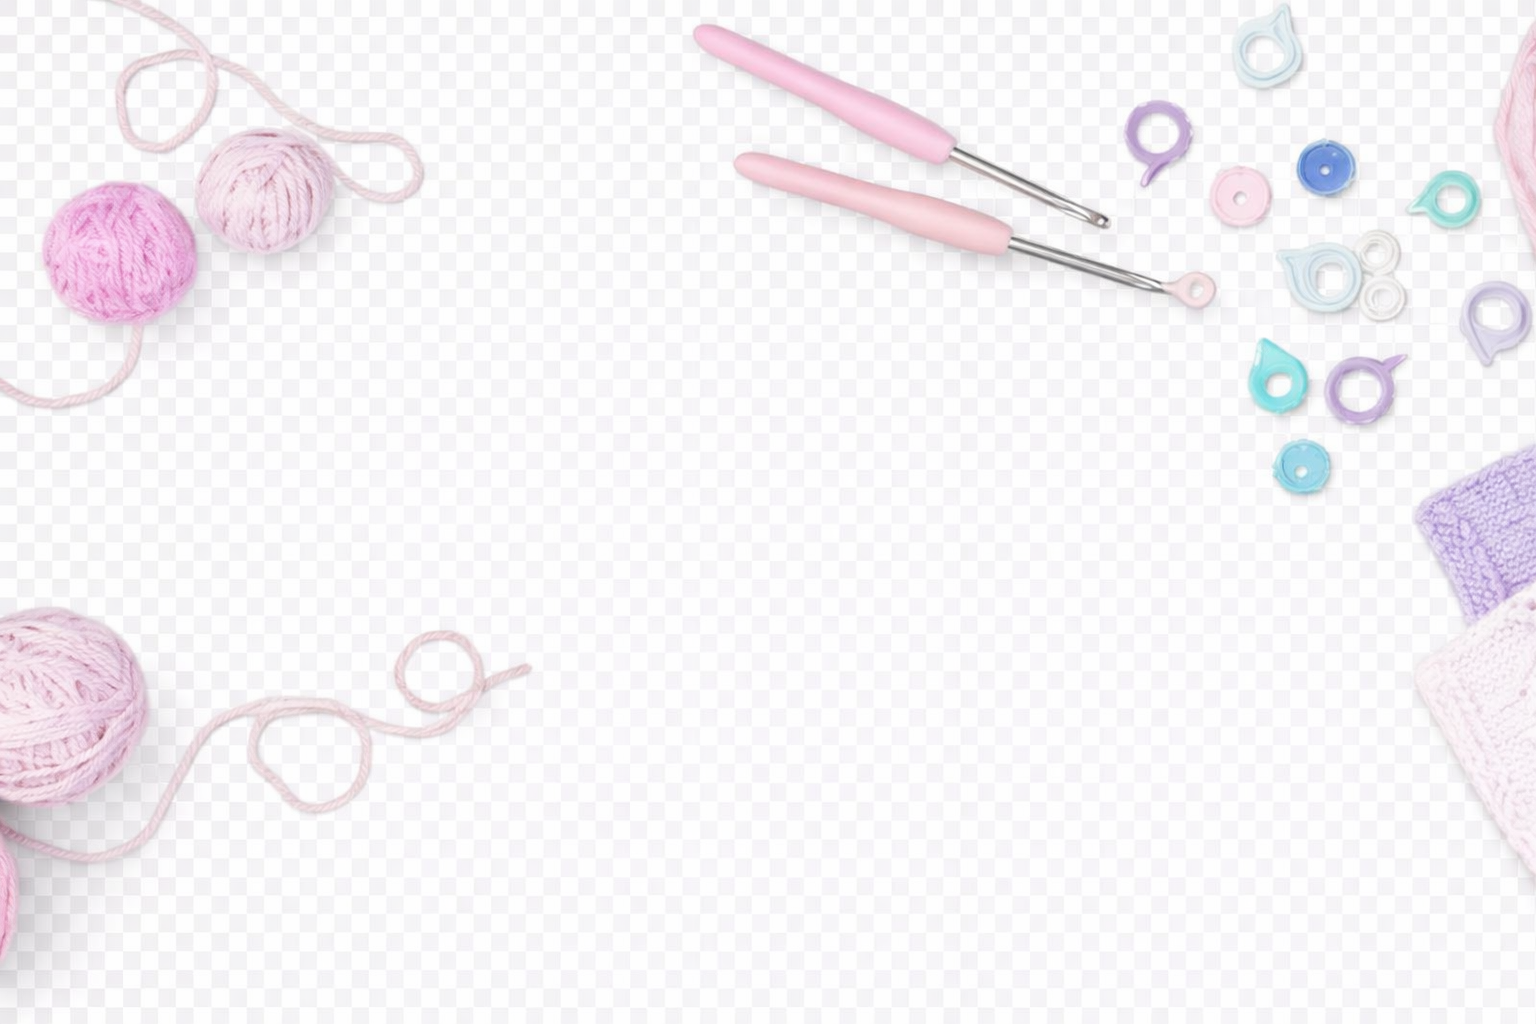
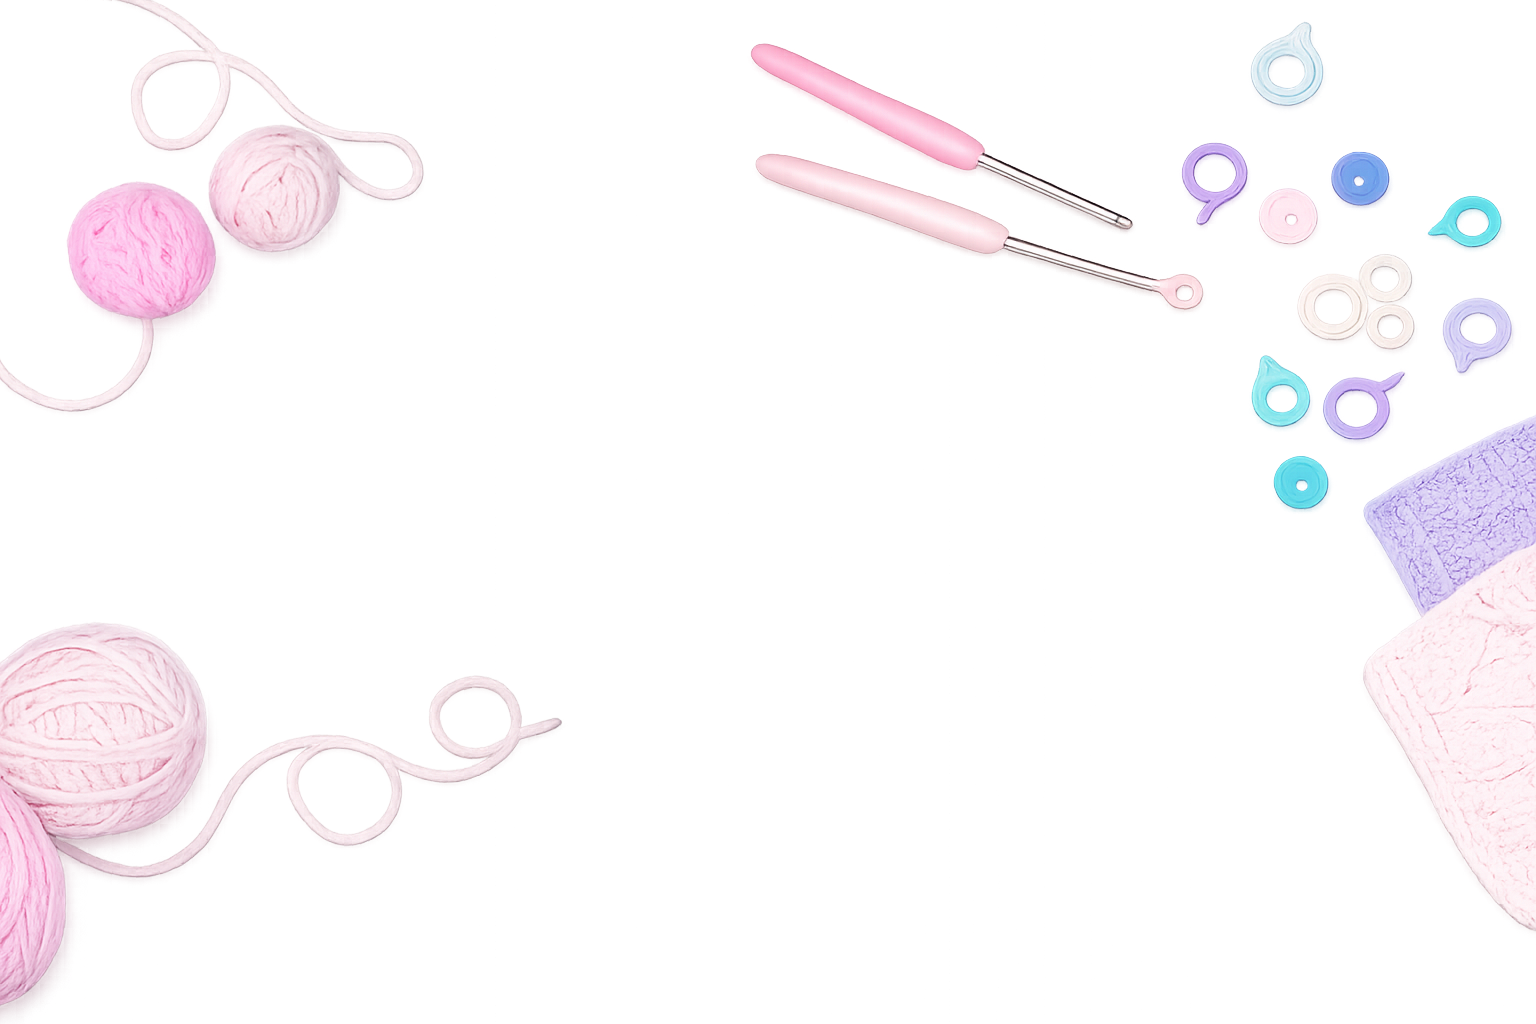
feat(ui): update background image and enhance responsiveness
- Updated background asset
- Added responsive adjustments for better layout

diff --git a/src/pages/Home.jsx b/src/pages/Home.jsx
@@ -26,19 +26,20 @@ export default function Home() {
 
             {/* HERO / HOME */}
             <section ref={homeRef} className="min-h-screen">
-                <div className={`w-full h-[95vh] bg-[url('/images/bg1.png')] bg-cover bg-[95vh]`}>
-                    <div className='absolute flex flex-col gap-4 top-1/5 left-0 pl-4 text-left'>
-                        <h1 className="title-primary text-4xl font-serif font-bold">
-                            Tapestry Art and Crochet 
+                <div className="relative w-full h-[95vh] bg-[url('/images/bg2.png')] bg-cover bg-center">
+                    <div className="absolute inset-0 bg-initial/40" /> 
+                    <div className="absolute inset-0 flex flex-col justify-center items-center text-center px-4">
+                        <h1 className="title-primary text-3xl sm:text-4xl md:text-5xl lg:text-6xl font-serif font-bold mb-2">
+                            Tapestry Art and Crochet
                         </h1>
-                        <h3 className='title-primary text-7xl font-serif font-bold'>
+                        <h3 className="title-primary text-4xl sm:text-5xl md:text-6xl lg:text-7xl font-serif font-bold mb-4">
                             by RATSIMAZOA
                         </h3>
-                        <p className='text-primary text-md pl-3 pr-[58vw] font-serif tracking-wider'>
+                        <p className="text-primary text-sm sm:text-base md:text-lg lg:text-xl max-w-2xl px-4 font-serif tracking-wider">
                             a small personal project created by a lovely girl who wants to share her passion and her art
                         </p>
                     </div>
-                </div>            
+                </div>
             </section>
 
             <About ref={aboutRef} />
